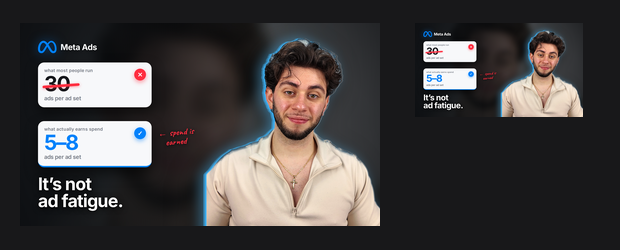
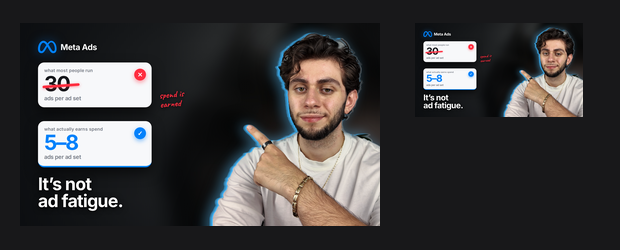
Swap in a better headshot and soften the processing
Picked s4 from the new set: smirk, direct eye contact, and a pointing
finger that lands on the winning card once flipped.

- Flip moved into the pipeline. A CSS scaleX(-1) also mirrors the rim-light
  drop-shadow offsets onto the wrong edge
- refine-cutout.py now takes the neck row as an argument. A white top is
  neutral and unwarm, so an unbounded spill mask would eat the clothing
- Grade roughly halved (S-curve 0.11, saturation 1.10, unsharp 70%); the
  previous strength was visibly degrading skin
- Background plate rebuilt from the wall beside him in the same shot. The
  old plate included a face and left a ghost head in the blur

Claude-Session: https://claude.ai/code/session_01GDiUpLQwiL13ZvT66QBghD

diff --git a/design/thumbnails/meta-ads-campaign-structure/index.html b/design/thumbnails/meta-ads-campaign-structure/index.html
@@ -35,7 +35,7 @@ html,body{background:#0a0b0d}
 .abs{position:absolute}
 
 /* ── presenter, with the cyan rim he puts on every cutout ── */
-#face{right:-28px;top:54px;width:645px;z-index:4}
+#face{right:-20px;top:33px;width:615px;z-index:4}
 #face img{
   width:100%;height:auto;display:block;
   transform:scaleX(var(--fflip,1));
@@ -112,7 +112,7 @@ html,body{background:#0a0b0d}
     <div class="unit">ads per ad set</div>
   </div>
 
-  <div class="abs" id="note" style="left:492px;top:372px">&larr; spend is<br>&nbsp;&nbsp;&nbsp;earned</div>
+  <div class="abs" id="note" style="left:496px;top:238px">spend is<br>earned</div>
 
   <div class="abs" id="line">It&rsquo;s not<br>ad fatigue.</div>
 </div>

diff --git a/design/thumbnails/meta-ads-campaign-structure/refine-cutout.py b/design/thumbnails/meta-ads-campaign-structure/refine-cutout.py
@@ -18,8 +18,9 @@ import numpy as np
 from PIL import Image, ImageFilter
 from scipy import ndimage
 
-# Only refine the head region — the wall behind the shoulders is already handled
-# by the matte, and the sweater's cool shadows would otherwise get nibbled.
+# Only refine down to the neck. Below that the clothing starts, and a white or
+# grey top is neutral and unwarm — exactly what the spill test looks for — so it
+# would get eaten. Pass the neck row as argv[3] for a new shot.
 HEAD_ROWS = 1150
 CHROMA_MAX = 19.0      # wall ~3, sweater ~16
 WARMTH_MAX = 9.0       # (R-B); wall ~ -3, blown wall ~ +6, sweater ~ +16
@@ -27,7 +28,7 @@ LUM_RANGE = (48, 252)
 EDGE_PX = 34           # spill only happens within this far of the matte edge
 
 
-def refine(src: str, dst: str):
+def refine(src: str, dst: str, head_rows: int = HEAD_ROWS):
     im = Image.open(src).convert("RGBA")
     arr = np.array(im).astype(np.float32)
     rgb, alpha = arr[:, :, :3], arr[:, :, 3]
@@ -52,8 +53,10 @@ def refine(src: str, dst: str):
     spill *= np.clip((EDGE_PX - dist) / EDGE_PX, 0, 1)
 
     region = np.zeros_like(spill)
-    region[:HEAD_ROWS] = 1.0
-    region[HEAD_ROWS:HEAD_ROWS + 120] = np.linspace(1, 0, 120)[:, None]
+    region[:head_rows] = 1.0
+    fade = min(120, max(0, region.shape[0] - head_rows))
+    if fade:
+        region[head_rows:head_rows + fade] = np.linspace(1, 0, fade)[:, None]
     spill *= region
 
     removed = float((spill > 0.5).sum())
@@ -78,4 +81,5 @@ def refine(src: str, dst: str):
 
 if __name__ == "__main__":
     refine(sys.argv[1] if len(sys.argv) > 1 else "assets/face.png",
-           sys.argv[2] if len(sys.argv) > 2 else "assets/face-clean.png")
+           sys.argv[2] if len(sys.argv) > 2 else "assets/face-clean.png",
+           int(sys.argv[3]) if len(sys.argv) > 3 else HEAD_ROWS)

diff --git a/design/thumbnails/meta-ads-campaign-structure/grade-face.py b/design/thumbnails/meta-ads-campaign-structure/grade-face.py
@@ -39,12 +39,12 @@ def grade(src: str, dst: str):
     alpha = im.getchannel("A")
     rgb = im.convert("RGB")
 
-    lut = s_curve(0.20)
+    lut = s_curve(0.11)
     rgb = rgb.point(lut * 3)
     rgb = split_tone(rgb)
-    rgb = ImageEnhance.Color(rgb).enhance(1.26)      # saturation
-    rgb = ImageEnhance.Brightness(rgb).enhance(1.04)
-    rgb = rgb.filter(ImageFilter.UnsharpMask(radius=2.2, percent=115, threshold=3))
+    rgb = ImageEnhance.Color(rgb).enhance(1.10)      # saturation
+    rgb = ImageEnhance.Brightness(rgb).enhance(1.02)
+    rgb = rgb.filter(ImageFilter.UnsharpMask(radius=1.8, percent=70, threshold=3))
 
     out = rgb.convert("RGBA")
     out.putalpha(alpha)

diff --git a/design/thumbnails/meta-ads-campaign-structure/README.md b/design/thumbnails/meta-ads-campaign-structure/README.md
@@ -78,6 +78,9 @@ model in the loop. `grade-face.py` is colour work only: an S-curve, a split-tone
 a saturation lift and an unsharp pass. It makes the face read on a dark field; it
 cannot change the expression.
 
+The grade is deliberately light (S-curve 0.11, saturation 1.10, unsharp 70%). An
+earlier pass at roughly double those values visibly degraded the skin.
+
 `assets/face.png` is produced with:
 
 ```python
@@ -96,9 +99,22 @@ crunchy. Two notes for anyone regenerating it:
   it. It is handled compositionally instead: `#face` is sized and positioned so
   everything below roughly 82% of the cutout height falls past the bottom edge.
   If you resize the face, re-check that the chair stays off-canvas.
-- **The source photo is mirrored** (shot in selfie view). With the background gone
-  there is no text to give it away, so it is left as-is. Set `--fflip:-1` on
-  `#face` to un-mirror.
+- **The shot is chosen for gesture direction.** Of the eight in the Drive folder,
+  `s4` has a smirk, direct eye contact and a clear pointing finger. `s2` has a
+  stronger expression but the gaze is averted, which costs more than the drama is
+  worth in a thumbnail.
+- **The flip happens in the pipeline, not in CSS.** The source is mirrored (selfie
+  view), so he points off-canvas as shot; flipped, he points straight at the
+  winning card. It has to be flipped on the file rather than with
+  `transform:scaleX(-1)`, because a CSS transform also mirrors the rim-light
+  `drop-shadow` offsets onto the wrong edge.
+- **Despill must stop at the neck.** `refine-cutout.py` takes the neck row as
+  argv[3] (980 for this shot). A white or grey top is neutral and unwarm —
+  exactly what the spill test looks for — so letting the mask run past the neck
+  eats the clothing.
+- **The plate must not contain his face.** Blurring a crop that includes him
+  leaves a ghost head floating in the background. This plate is built from the
+  wall-and-plant strip beside him in the same shot.
 - **Matte spill is invisible on light and glaring on dark.** rembg keeps the wall
   showing through the gaps between hair strands. `refine-cutout.py` handles it by
   scoring each pixel on chroma, warmth and luminance, gating that score on
